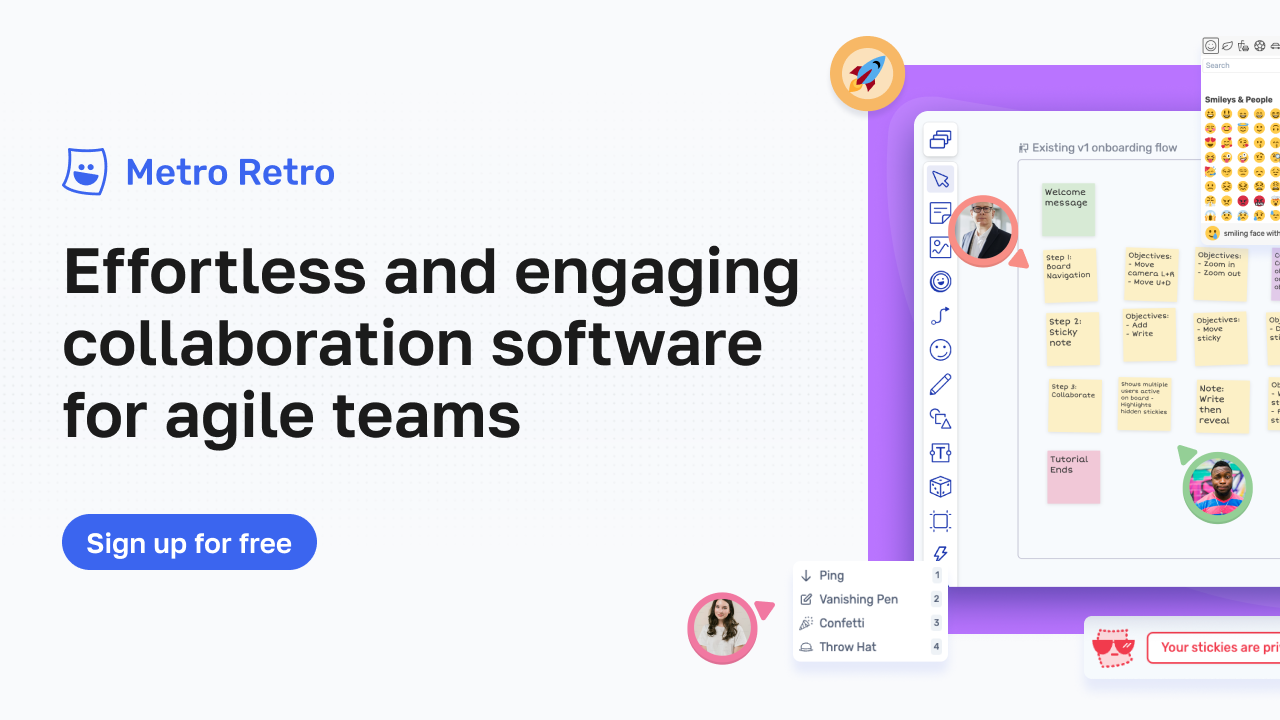
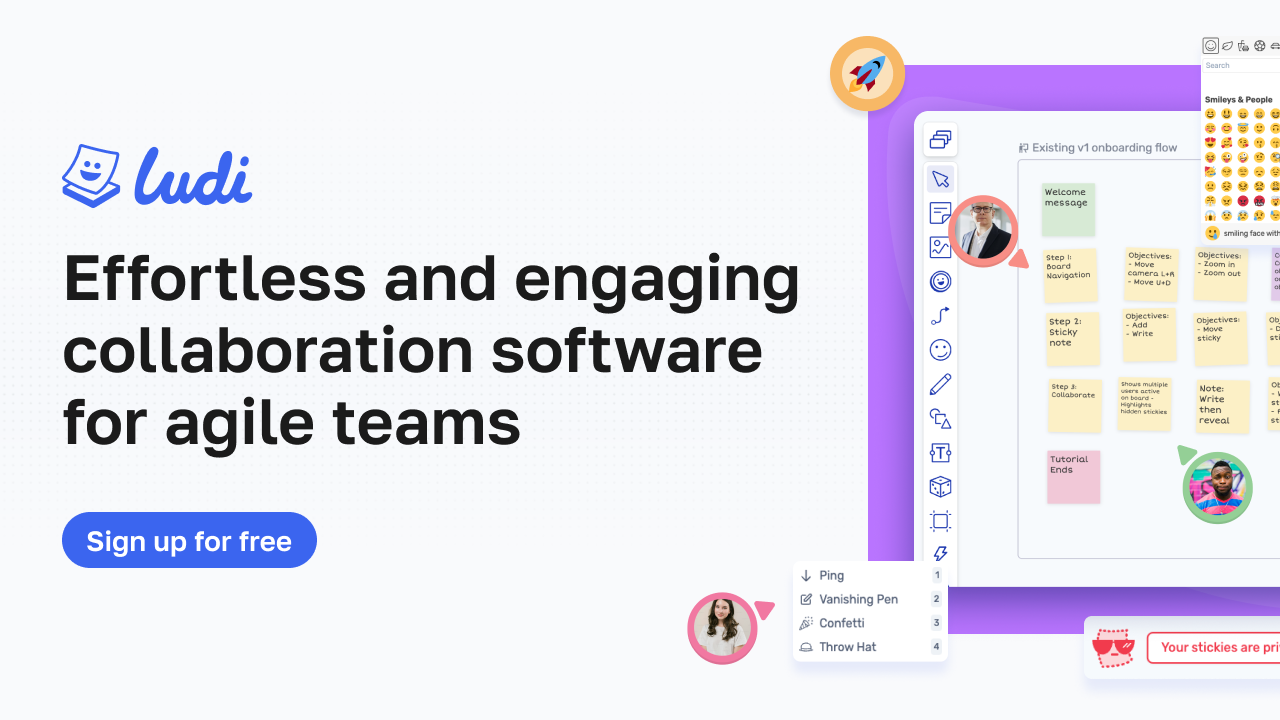
YOLO

Changed region(s): [[0.0312, 0.3361, 0.625, 0.6417], [0.0312, 0.1833, 0.2812, 0.3056], [0.0625, 0.7333, 0.25, 0.7944]]

diff --git a/src/content/blog/what-is-whiteboarding.md b/src/content/blog/what-is-whiteboarding.md
@@ -65,7 +65,7 @@ Genie in a Bottle retrospective
 
 ### 2\. Invite your team and guests to join
 
-Begin your retrospective session by inviting your team to join your board in Ludi. You can easily [share your board](https://docs.metroretro.io/on-the-board/share-your-board) by sharing your board URL with those you want to join. 
+Begin your retrospective session by inviting your team to join your board in Ludi. You can easily [share your board](https://docs.ludi.co/boards/share-your-board) by sharing your board URL with those you want to join. 
 
 On the free plan, those you share the link with will need to sign-in and will be added to your team, granting them access to your team dashboard and all the boards inside it. If you are on a paid plan, and the person joining is not a member of your team, they will join as a guest and only have access to the board you are sharing. 
 
@@ -77,11 +77,11 @@ Energy levels template: A battery-themed check-in activity to gauge the team’s
 
 ### 3\. Generate Insights
 
-Utilize the online whiteboard to capture key insights, notable events, challenges faced, and successes achieved during the sprint. With Ludi, you can [enable private writing](https://docs.metroretro.io/on-the-board/how-to-hide-and-reveal-sticky-notes), only revealing the sticky notes when team members are ready, offering a depressurized space for sharing honest thoughts and feelings.
+Utilize the online whiteboard to capture key insights, notable events, challenges faced, and successes achieved during the sprint. With Ludi, you can [enable private writing](https://docs.ludi.co/boards/hide-and-show-sticky-notes), only revealing the sticky notes when team members are ready, offering a depressurized space for sharing honest thoughts and feelings.
 
 ### 4\. Facilitate Discussion
 
-As ideas are presented on the board, facilitate an open discussion among team members. Encourage constructive feedback, active listening and emoji reactions, and collaborative problem-solving. Use the visual cues provided by the whiteboard to guide the conversation and ensure that all relevant topics are addressed. With our whiteboard, you can use the “[Topic Tool](https://docs.metroretro.io/boards/the-tools#topic-tool)” to group similar stickies into themes. Utilize our “Everyone to Me” feature to bring everyone to your current view, maintaining focus at all times. Run polls, set timers, and use the “Ready Check” to keep the retro running smoothly. 
+As ideas are presented on the board, facilitate an open discussion among team members. Encourage constructive feedback, active listening and emoji reactions, and collaborative problem-solving. Use the visual cues provided by the whiteboard to guide the conversation and ensure that all relevant topics are addressed. With our whiteboard, you can use the “[Topic Tool](https://docs.ludi.co/boards/the-tools#topics-meeting-mode-only)” to group similar stickies into themes. Utilize our “Everyone to Me” feature to bring everyone to your current view, maintaining focus at all times. Run polls, set timers, and use the “Ready Check” to keep the retro running smoothly. 
 
 ![](../../assets/images/legacy/2024/03/Topic-grouping-1024x679.png)
 
@@ -89,7 +89,7 @@ Identify topics with the Grouping tool
 
 ### 5\. Identify Action Items with Voting
 
-Based on the insights generated and discussions held, work together to identify actionable items for improvement using our [voting functionality](https://docs.metroretro.io/boards/the-tools#voting-tool). You can vote on stickies, topics, index cards, and task cards, before using our “ranking results” button to present an overview. Use the whiteboard to document these action items, assign responsibilities, and establish deadlines. Save them to your team space within Ludi to review next time.
+Based on the insights generated and discussions held, work together to identify actionable items for improvement using our [voting functionality](https://docs.ludi.co/boards/the-tools#voting-meeting-mode-only). You can vote on stickies, topics, index cards, and task cards, before using our “ranking results” button to present an overview. Use the whiteboard to document these action items, assign responsibilities, and establish deadlines. Save them to your team space within Ludi to review next time.
 
 ![](../../assets/images/legacy/2024/03/Voting-1024x576.png)
 

diff --git a/src/content/blog/why-metro-retro-is-the-best-alternative-to-jamboard-for-agile-retrospectives.md b/src/content/blog/why-metro-retro-is-the-best-alternative-to-jamboard-for-agile-retrospectives.md
@@ -72,7 +72,7 @@ Confetti and hats – what more could you want?
 
 ### 4\. Voting Tools for Better Decision-Making
 
-Decision-making is simplified with Ludi’s **[topic](https://docs.metroretro.io/boards/the-tools#topics-meeting-mode-only)** and **[voting](https://docs.metroretro.io/boards/voting) tools**.
+Decision-making is simplified with Ludi’s **[topic](https://docs.ludi.co/boards/the-tools#topics-meeting-mode-only)** and **[voting](https://docs.ludi.co/boards/the-tools#voting-meeting-mode-only) tools**.
 
 A board that is chock full of ideas is sorted and organised in minutes with the Topic tool. Team members can vote on ideas, prioritize tasks, or rate discussion points directly on the board.
 
@@ -98,7 +98,7 @@ The Meeting Host controls the tempo.
 
 One of the key challenges in retrospectives is encouraging open, honest feedback.
 
-Ludi tackles this issue by offering **[private writing](https://docs.metroretro.io/boards/hide-and-show-sticky-notes)** and **[anonymity options](https://docs.metroretro.io/boards/host-controls#hide-identities)**. Team members can contribute ideas and insights without the pressure of judgment, leading to unbiased brainstorming.
+Ludi tackles this issue by offering **[private writing](https://docs.ludi.co/boards/hide-and-show-sticky-notes)** and **[anonymity options](https://docs.ludi.co/boards/host-controls#hide-identities)**. Team members can contribute ideas and insights without the pressure of judgment, leading to unbiased brainstorming.
 
 This is especially helpful when working with introverted or shy team members who might hesitate to share openly.
 
@@ -148,7 +148,7 @@ Run interactive [Planning Poker meetings](/templates/planning-and-estimation/pla
 
 ### 11\. Integration with Jira
 
-Ludi [integrates seamlessly with **Jira**](https://docs.metroretro.io/boards/jira-integration), a tool that needs no introduction to software teams – for better or worse 🤭.
+Ludi [integrates seamlessly with **Jira**](https://docs.ludi.co/boards/jira-integration), a tool that needs no introduction to software teams – for better or worse 🤭.
 
 This integration allows teams to transfer actions from retrospectives directly into their Jira board, and visualise their backlog as cards on the interactive canvas.
 
@@ -166,7 +166,7 @@ Import Jira issues to your team board as Jira cards
 
 With Ludi, your data is never locked into one platform.
 
-Users can **[export their meeting data](https://docs.metroretro.io/boards/export-your-board), export boards as PDFs, and copy-paste meeting notes** into their other work tools, allowing for easy sharing and record-keeping.
+Users can **[export their meeting data](https://docs.ludi.co/boards/export-your-board), export boards as PDFs, and copy-paste meeting notes** into their other work tools, allowing for easy sharing and record-keeping.
 
 This flexibility is ideal for teams who need to incorporate retrospective insights into larger projects or organizational records.
 

diff --git a/src/content/blog/collaborative-online-whiteboard.md b/src/content/blog/collaborative-online-whiteboard.md
@@ -52,7 +52,7 @@ Before starting a session, define the objectives and agenda to keep the discussi
 
 ### 4\. Encourage Participation
 
-Actively encourage all team members to contribute. If you are using a collaborative online whiteboard, the key term is ‘collaborative’ — for successful use of the tool and a valuable meeting, everyone needs to contribute. Use our tools like sticky notes, “Everyone to Me” (to bring everyone to your view of the board), and [private writing](https://docs.metroretro.io/on-the-board/how-to-hide-and-reveal-sticky-notes) to facilitate brainstorming and idea-sharing. Emphasize the importance of inclusivity and ensure that everyone has an opportunity to voice their thoughts, for example through using our poll feature.
+Actively encourage all team members to contribute. If you are using a collaborative online whiteboard, the key term is ‘collaborative’ — for successful use of the tool and a valuable meeting, everyone needs to contribute. Use our tools like sticky notes, “Everyone to Me” (to bring everyone to your view of the board), and [private writing](https://docs.ludi.co/boards/hide-and-show-sticky-notes) to facilitate brainstorming and idea-sharing. Emphasize the importance of inclusivity and ensure that everyone has an opportunity to voice their thoughts, for example through using our poll feature.
 
 ### 5\. Utilize Templates and Frameworks
 

diff --git a/src/content/blog/sprint-retrospective-agenda.md b/src/content/blog/sprint-retrospective-agenda.md
@@ -76,7 +76,7 @@ _‘The Good, The Bad, The Ugly’ template by Ludi._
 
 ### Step 3: Decipher the themes and insights
 
-Now that the team has contributed their individual thoughts, it’s time to bring it all together. These ‘thoughts’ are actually data on how a sprint has performed, and should be treated as such. With this in mind, it’s time to look for patterns and insights. Using Ludi, you can go through the points in each section using the [topic tool](https://docs.metroretro.io/boards/the-tools#topic-tool) and [voting tool](https://docs.metroretro.io/boards/the-tools#voting-tool) to find patterns and themes.
+Now that the team has contributed their individual thoughts, it’s time to bring it all together. These ‘thoughts’ are actually data on how a sprint has performed, and should be treated as such. With this in mind, it’s time to look for patterns and insights. Using Ludi, you can go through the points in each section using the [topic tool](https://docs.ludi.co/boards/the-tools#topics-meeting-mode-only) and [voting tool](https://docs.ludi.co/boards/the-tools#voting-meeting-mode-only) to find patterns and themes.
 
 These insights that you gather are a key part of setting goals and actions, so make sure the whole team is encouraged to contribute any thoughts they may have. Different perspectives are key at this stage in the retro.
 

diff --git a/src/content/blog/online-whiteboard-tools.md b/src/content/blog/online-whiteboard-tools.md
@@ -60,7 +60,7 @@ Many online whiteboard tools integrate with other productivity tools and platfor
 
 ### 6\. Engagement and Participation
 
-Online whiteboard tools can enhance engagement and participation during virtual meetings and collaborative sessions. Interactive features such as [voting](https://docs.metroretro.io/boards/the-tools#voting-tool), [emoji reactions](https://docs.metroretro.io/boards/the-tools#reaction-tool), collaborative drawing, and [confetti cannons](https://docs.metroretro.io/boards/the-tools#confetti-cannon) enable active participation from all attendees, fostering a sense of inclusion and ownership for all team members.
+Online whiteboard tools can enhance engagement and participation during virtual meetings and collaborative sessions. Interactive features such as [voting](https://docs.ludi.co/boards/the-tools#voting-meeting-mode-only), [emoji reactions](https://docs.ludi.co/boards/the-tools#reaction-tool), collaborative drawing, and [confetti cannons](https://docs.ludi.co/boards/the-tools#gestures) enable active participation from all attendees, fostering a sense of inclusion and ownership for all team members.
 
 ## Online whiteboard tools to try in 2024
 

diff --git a/src/content/customers/ryd-streamlined-engineering-team-meetings-with-metro-retro.md b/src/content/customers/ryd-streamlined-engineering-team-meetings-with-metro-retro.md
@@ -89,7 +89,7 @@ It can be difficult to get a remote development team engaged in a genuine retros
 
 In game design, there is a saying called "follow the fun", which means if you see players doing fun stuff that wasn't part of the intended design, lean into it instead of "fixing it".
 
-We follow this philosophy with Ludi. A great example is the [Topic Tool](https://docs.metroretro.io/boards/the-tools#topics-meeting-mode-only), which was added after we spoke to customers and saw they were naturally grouping stickies together in their meetings, and trying to draw a line around them with boxes.
+We follow this philosophy with Ludi. A great example is the [Topic Tool](https://docs.ludi.co/boards/the-tools#topics-meeting-mode-only), which was added after we spoke to customers and saw they were naturally grouping stickies together in their meetings, and trying to draw a line around them with boxes.
 
 With Topics, the lines are now drawn around grouped elements automatically, and in the near future we'll be using AI to help automate the grouping process.
 

diff --git a/src/content/blog/new-in-july-2022-19-new-updates.md b/src/content/blog/new-in-july-2022-19-new-updates.md
@@ -53,7 +53,7 @@ If your team already love working in Ludi there are new object types for more oc
 
 Using tokens for a quick team mood check-in
 
-Or use the new Task Cards for collaborative roadmapping sessions (see the magic of [importing your backlog to Ludi](https://docs.metroretro.io/on-the-board/import-data-to-your-boards#how-to-import-and-map-your-data)):
+Or use the new Task Cards for collaborative roadmapping sessions (see the magic of [importing your backlog to Ludi](https://docs.metroretro.io/boards/import-data-to-your-boards)):
 
 ![](../../assets/images/legacy/2023/05/634edae0eea2b5c7e509c7d3_Quarterly-roadmap-1.png)
 
